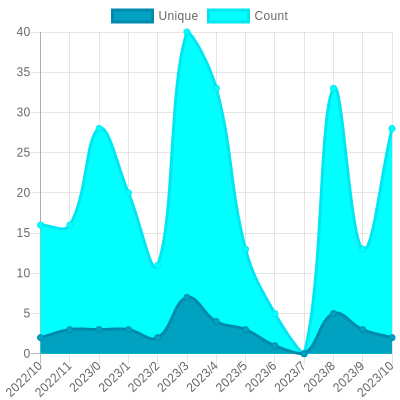
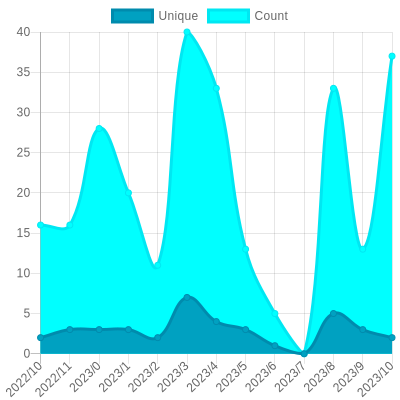
Update views

Changed region(s): [[0.9, 0.12, 0.99, 0.63]]

diff --git a/README.md b/README.md
@@ -26,7 +26,7 @@ The project created and maintained by [gayanvoice](https://github.com/gayanvoice
 			</a>
 		</td>
 		<td>
-			2022/11/9 12:53 AM UTC
+			2022/11/10 12:54 AM UTC
 		</td>
 		<td>
 			13
@@ -42,7 +42,7 @@ The project created and maintained by [gayanvoice](https://github.com/gayanvoice
 			</a>
 		</td>
 		<td>
-			2022/11/9 12:53 AM UTC
+			2022/11/10 12:54 AM UTC
 		</td>
 		<td>
 			22
@@ -58,7 +58,7 @@ The project created and maintained by [gayanvoice](https://github.com/gayanvoice
 			</a>
 		</td>
 		<td>
-			2022/11/9 12:53 AM UTC
+			2022/11/10 12:54 AM UTC
 		</td>
 		<td>
 			11
@@ -74,18 +74,18 @@ The project created and maintained by [gayanvoice](https://github.com/gayanvoice
 			</a>
 		</td>
 		<td>
-			2022/11/9 12:53 AM UTC
+			2022/11/10 12:00 AM UTC
 		</td>
 		<td>
-			39
+			40
 		</td>
 		<td>
-			<img alt="Response time graph" src="https://github.com/TorrezMN/Github_Counter/raw/master/graph/182812956/small/year.png" height="20"> 322
+			<img alt="Response time graph" src="https://github.com/TorrezMN/Github_Counter/raw/master/graph/182812956/small/year.png" height="20"> 346
 		</td>
 	</tr>
 </table>
 
-<small><i>Last updated on 2022/11/11 6:13 PM UTC</i></small>
+<small><i>Last updated on 2022/11/12 12:53 AM UTC</i></small>
 
 ## ✂Copy and 📋 Paste
 ### Total Views Badge

diff --git a/readme/182812956/year.md b/readme/182812956/year.md
@@ -26,7 +26,7 @@
 			<code>2</code>
 		</td>
 		<td>
-			<code>28</code>
+			<code>37</code>
 		</td>
 	</tr>
 	<tr>
@@ -164,7 +164,7 @@
 </table>
 
 </details>
-<small><i>Last updated on 2022/11/11 6:13 PM UTC</i></small>
+<small><i>Last updated on 2022/11/12 12:53 AM UTC</i></small>
 
 ## ✂Copy and 📋 Paste
 ### SVG Badge

diff --git a/readme/155655077/year.md b/readme/155655077/year.md
@@ -164,7 +164,7 @@
 </table>
 
 </details>
-<small><i>Last updated on 2022/11/11 6:12 PM UTC</i></small>
+<small><i>Last updated on 2022/11/12 12:52 AM UTC</i></small>
 
 ## ✂Copy and 📋 Paste
 ### SVG Badge

diff --git a/readme/290022000/year.md b/readme/290022000/year.md
@@ -164,7 +164,7 @@
 </table>
 
 </details>
-<small><i>Last updated on 2022/11/11 6:12 PM UTC</i></small>
+<small><i>Last updated on 2022/11/12 12:53 AM UTC</i></small>
 
 ## ✂Copy and 📋 Paste
 ### SVG Badge

diff --git a/readme/363189585/year.md b/readme/363189585/year.md
@@ -164,7 +164,7 @@
 </table>
 
 </details>
-<small><i>Last updated on 2022/11/11 6:12 PM UTC</i></small>
+<small><i>Last updated on 2022/11/12 12:52 AM UTC</i></small>
 
 ## ✂Copy and 📋 Paste
 ### SVG Badge
